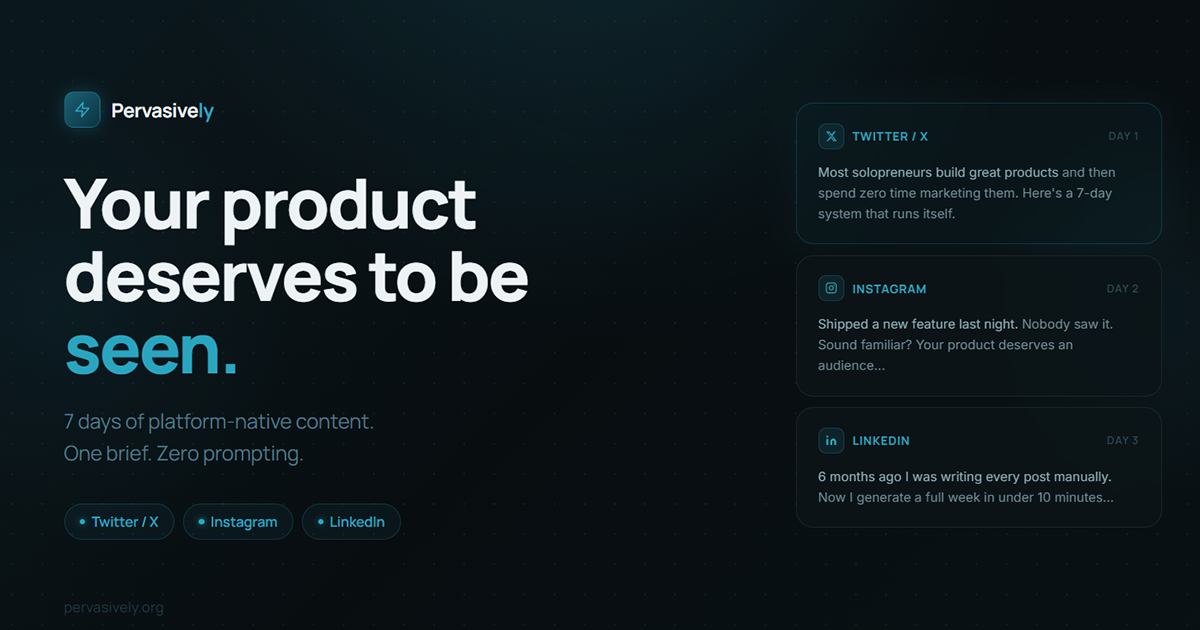
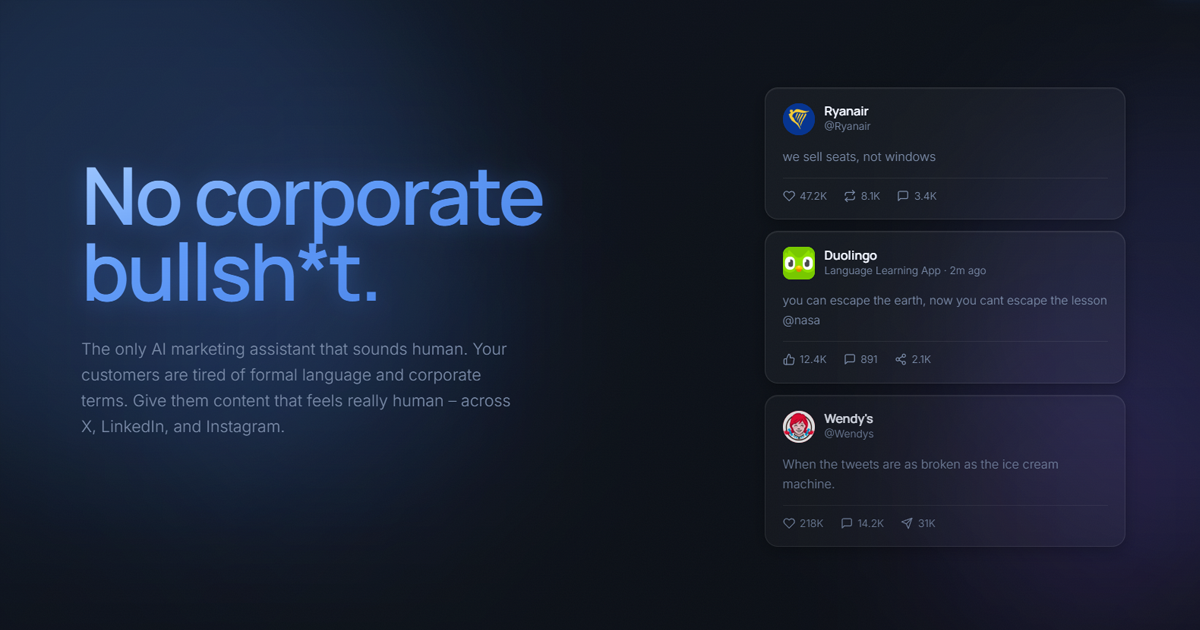
Fix the og image and title

diff --git a/src/app/layout.tsx b/src/app/layout.tsx
@@ -3,12 +3,12 @@ import { Providers } from "@/components/providers";
 import "./globals.css";
 
 export const metadata: Metadata = {
-  title: "Pervasively – Content engine for solopreneurs",
+  title: "Pervasively – The only marketing assistant that sounds human",
   description: "Pervasively turns your product knowledge into a full week of platform-ready content — Twitter/X, Instagram, LinkedIn — in under 10 minutes. No prompting. No guessing. Just post.",
   icons: { icon: [{ url: '/pervasively.jpg', type: 'image/png', sizes: '32x32' }] },
   openGraph: {
     title: "Pervasively – Content engine for solopreneurs",
-    description: "Generate 7 days of platform-native social posts from your product brief. No prompting. Just post.",
+    description: "The only marketing assistant that sounds human.",
     url: "https://pervasively.org",
     siteName: "Pervasively",
     images: [
@@ -16,14 +16,14 @@ export const metadata: Metadata = {
         url: "https://pervasively.org/og-pervasively.png",
         width: 1200,
         height: 630,
-        alt: "Pervasively – Content engine for solopreneurs",
+        alt: "Pervasively – The only marketing assistant that sounds human",
       },
     ],
     type: "website",
   },
   twitter: {
     card: "summary_large_image",
-    title: "Pervasively – Content engine for solopreneurs",
+    title: "Pervasively – The only marketing assistant that sounds human",
     description: "Generate 7 days of platform-native social posts from your product brief. No prompting. Just post.",
     images: ["https://pervasively.org/og-pervasively.png"],
   },
